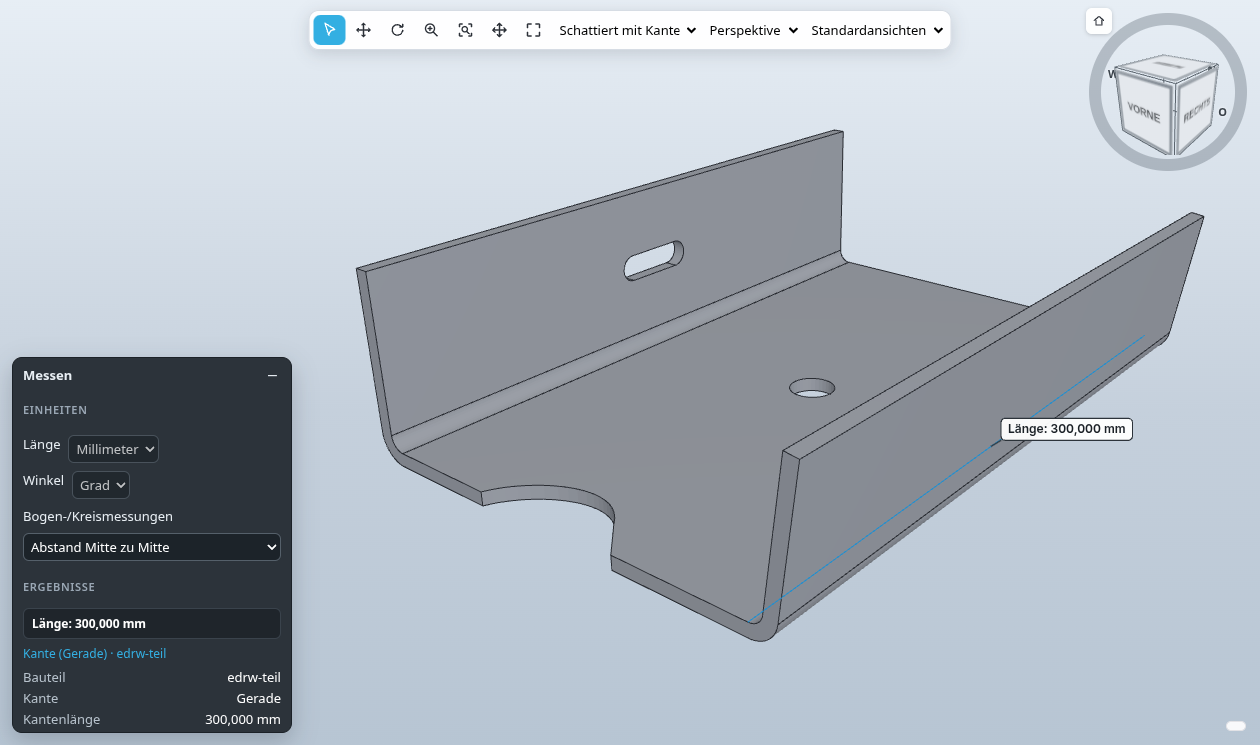
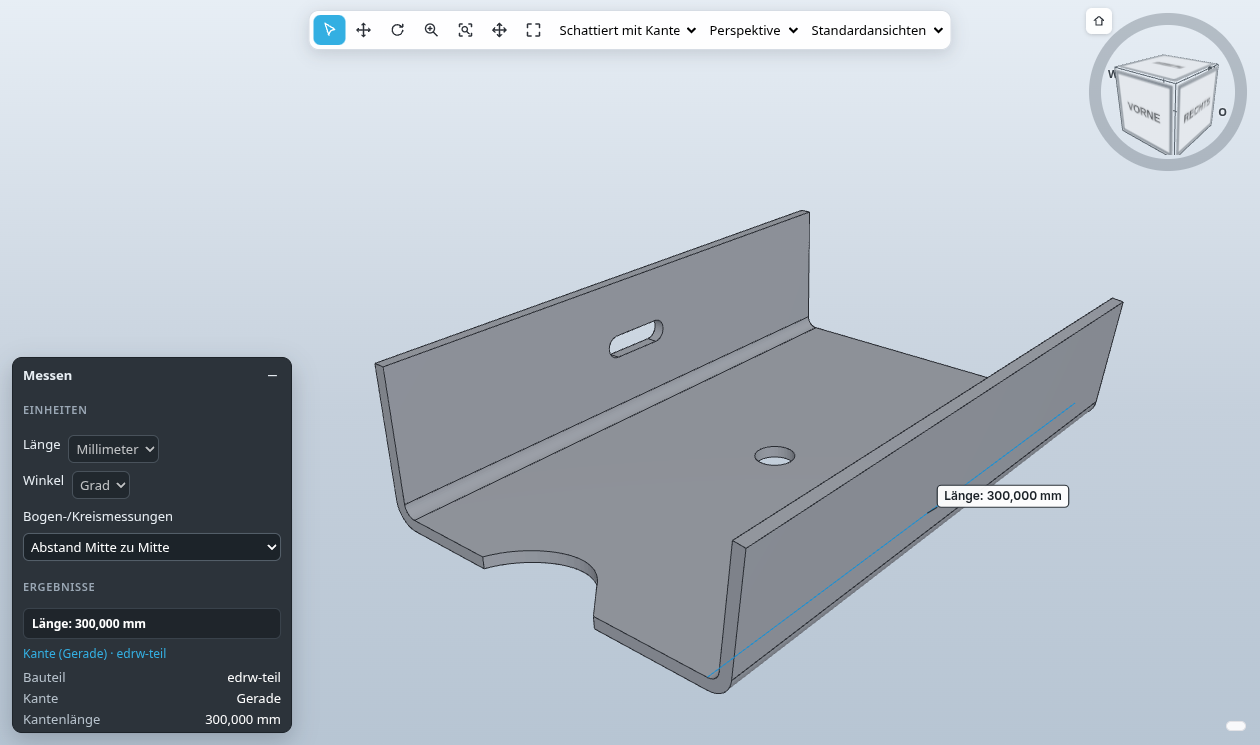
Einpassen: Drehpunkt bleibt Modellmitte; Messwerte: veraltete Ergebnisse verwerfen, Overlay auf CPU

diff --git a/src/main.js b/src/main.js
@@ -22,6 +22,8 @@ const controls=new OrbitControls(camera,renderer.domElement);controls.enableDamp
 controls.mouseButtons={LEFT:null,MIDDLE:THREE.MOUSE.ROTATE,RIGHT:THREE.MOUSE.PAN};controls.zoomToCursor=true;
 renderer.domElement.addEventListener('mousedown',e=>{if(e.button===1)e.preventDefault()});
 const overlay=document.createElement('canvas');overlay.id='dimoverlay';overlay.style.cssText='position:absolute;left:0;top:0;pointer-events:none';view.appendChild(overlay);
+// Overlay auf der CPU: GPU-Canvas ließ nach clearRect alte Messwerte stehen (Chromium)
+overlay.getContext('2d',{willReadFrequently:true});
 const plane=new THREE.Plane(new THREE.Vector3(1,0,0),0);
 let model=null,box=new THREE.Box3(),needs=true,data=null,bodies=[],edgeObjs=[],baseMat=null,marks=new THREE.Group(),hoverObj=new THREE.Group();
 let ersteZeichnung=0,anim=null,drehen=false,mausUnten=false,werkzeug='wahl',triade=null,wahlMark=null;
@@ -99,14 +101,11 @@ function wuerfelSync(){if(!vr)return;const dir=camera.position.clone().sub(contr
 const SICHT_OBEN=62,SICHT_UNTEN=14; // Werkzeugleiste oben, Rand unten (px)
 // Einpassen wie eDrawings: Abstand so, dass der projizierte Hüllquader in die freie Fläche passt (unter der Werkzeugleiste, neben dem Feld)
 function einpassAbstand(c,d,up,s){let dist=sichtDistanz(s);const tar=c.clone();const w=view.clientWidth,h=view.clientHeight;if(!camera.isPerspectiveCamera||!w||!h||box.isEmpty())return {dist,tar};
-  const k=camera.clone();k.up.copy(up);const v=new THREE.Vector3(),aH=Math.max(80,h-SICHT_OBEN-SICHT_UNTEN),aW=Math.max(80,w-freiD-32),re=new THREE.Vector3(),ob=new THREE.Vector3();
-  // Mehrfach: Abstand so, dass der projizierte Hüllquader passt, und Ziel so verschoben, dass er mittig im freien Bereich liegt (Perspektive macht ihn sonst schief)
-  for(let i=0;i<6;i++){k.position.copy(tar).addScaledVector(d,dist);k.lookAt(tar);k.updateMatrixWorld();let x0=Infinity,y0=Infinity,x1=-Infinity,y1=-Infinity;
-    for(let j=0;j<8;j++){v.set(j&1?box.max.x:box.min.x,j&2?box.max.y:box.min.y,j&4?box.max.z:box.min.z).project(k);const x=(v.x+1)/2*w,y=(1-v.y)/2*h;x0=Math.min(x0,x);x1=Math.max(x1,x);y0=Math.min(y0,y);y1=Math.max(y1,y)}
-    v.copy(tar).project(k);const mx=(v.x+1)/2*w,my=(1-v.y)/2*h,dx=(x0+x1)/2-mx,dy=(y0+y1)/2-my;
-    const wpp=2*dist*Math.tan(k.fov*Math.PI/360)/h;re.setFromMatrixColumn(k.matrixWorld,0).normalize();ob.setFromMatrixColumn(k.matrixWorld,1).normalize();
-    tar.addScaledVector(re,dx*wpp).addScaledVector(ob,-dy*wpp);
-    const f=Math.max((y1-y0)/aH,(x1-x0)/aW)/0.92;if(Number.isFinite(f)&&Math.abs(f-1)>=0.01)dist=Math.max(dist*f,s*0.55);else if(Math.abs(dx)<1&&Math.abs(dy)<1)break}
+  const k=camera.clone();k.up.copy(up);const v=new THREE.Vector3(),aH=Math.max(80,h-SICHT_OBEN-SICHT_UNTEN),aW=Math.max(80,w-freiD-32);
+  // Drehpunkt bleibt die Modellmitte; der Abstand wird so gewählt, dass der projizierte Hüllquader symmetrisch um sie in die freie Fläche passt
+  for(let i=0;i<6;i++){k.position.copy(tar).addScaledVector(d,dist);k.lookAt(tar);k.updateMatrixWorld();v.copy(tar).project(k);const mx=(v.x+1)/2*w,my=(1-v.y)/2*h;let hx=0,hy=0;
+    for(let j=0;j<8;j++){v.set(j&1?box.max.x:box.min.x,j&2?box.max.y:box.min.y,j&4?box.max.z:box.min.z).project(k);hx=Math.max(hx,Math.abs((v.x+1)/2*w-mx));hy=Math.max(hy,Math.abs((1-v.y)/2*h-my))}
+    const f=Math.max(2*hy/aH,2*hx/aW)/0.94;if(!Number.isFinite(f)||Math.abs(f-1)<0.01)break;dist=Math.max(dist*f,s*0.55)}
   return {dist,tar}}
 function sichtDistanz(s){const tan35=Math.tan(35*Math.PI/360);const h=view.clientHeight||1,fa=Math.min(1,Math.max(0.2,((view.clientWidth||h)-freiD)/h));return s*1.7*(tan35/(Math.tan(camera.fov*Math.PI/360)*fa))}
 function animSchritt(){const t=Math.min(1,(performance.now()-anim.t0)/anim.ms);const k=t*t*(3-2*t);
@@ -560,7 +559,7 @@ function sicht(){if(!model)return {};return {oben:camDir(new THREE.Vector3(0,1,0
 function messOpts(){const art=$('projektion')?.value||'keine';const pj={art};if(art==='bildschirm'&&model)pj.n=camDir(new THREE.Vector3(0,0,1));return {methode:$('methode')?.value||'auto',bogen:$('bogenAbstand')?.value||'mitte',projektion:pj,richtung:$('massRichtung')?.value||'ausgerichtet',sicht:sicht()}}
 function messGrafik(r){r.gfx.forEach(([a,b])=>{const l=new THREE.Line(new THREE.BufferGeometry().setFromPoints([V3(a),V3(b)]),new THREE.LineBasicMaterial({color:0x1f8fd0,depthTest:false}));l.renderOrder=11;marks.add(l)});
   if(r.delta&&$('deltaZeigen')?.checked)deltaLinien(r.delta[0],r.delta[1]).forEach(d=>{const l=new THREE.Line(new THREE.BufferGeometry().setFromPoints([V3(d.von),V3(d.bis)]),new THREE.LineBasicMaterial({color:d.farbe,depthTest:false}));l.renderOrder=11;l.userData.delta=d.achse;marks.add(l)})}
-async function neuMessen(){if(!sels.length)return;const s=sels.slice(),opts=messOpts();try{const r=await call('measure',{sels:s,opts});lastRes={r,sels:s,title:s.map(label).join(' + '),opts};
+async function neuMessen(){if(!sels.length)return;const s=sels.slice(),opts=messOpts();try{const r=await call('measure',{sels:s,opts});if(s.length!==sels.length||s.some((x,i)=>x!==sels[i]))return;lastRes={r,sels:s,title:s.map(label).join(' + '),opts};
   marks.clear();s.forEach(x=>marks.add(hiObj(x,0x1f8fd0)));messGrafik(r);zeigeMessung(r);window.__lastMeasure=r;needs=true;return r}catch(err){$('mresult').innerHTML=`<div>Fehler</div><div>${err.message}</div>`}}
 function clearSel(){sels=[];reiheBezug=null;zeileHi.clear();if(vorschauLinie){vorschauLinie.removeFromParent();vorschauLinie=null}marks.clear();$('selinfo').textContent='';$('mresult').innerHTML='';messLabels=[];ergebnisZeigen([]);try{drawDims()}catch{}window.__lastMeasure=null;needs=true}
 // ---------- Fläche zu Fläche (wie ZW3D „Instant Measure“) ----------
@@ -673,7 +672,7 @@ function zeichneMesslabels(c){if(!messLabels.length||!model)return;c.save();c.fo
   c.restore()}
 async function select(s,add=false){if(sels.length>=2&&!add)clearSel();const clean={k:s.k,id:s.id,inst:s.inst,p:s.p};if(s.src)clean.src=s.src;sels.push(clean);marks.add(hiObj(clean,0x1f8fd0));
   $('selinfo').textContent=sels.map(label).join('  +  ');needs=true;
-  try{const opts=messOpts();const r=await call('measure',{sels,opts});lastRes={r,sels:sels.slice(),title:sels.map(label).join(' + '),opts};zeigeMessung(r);
+  try{const opts=messOpts();const r=await call('measure',{sels:sels.slice(),opts});if(!sels.includes(clean))return;lastRes={r,sels:sels.slice(),title:sels.map(label).join(' + '),opts};zeigeMessung(r);
     messGrafik(r);
     // Zwei Flächen: wie eDrawings nur Werte an den Flächen (keine bleibende Bemaßung). Andere Paare und „Nur Flächen“ (Q, wie ZW3D): Bemaßung bleibt stehen
     if(sels.length===2&&!add&&!edrwFlaechen())keepDim();
